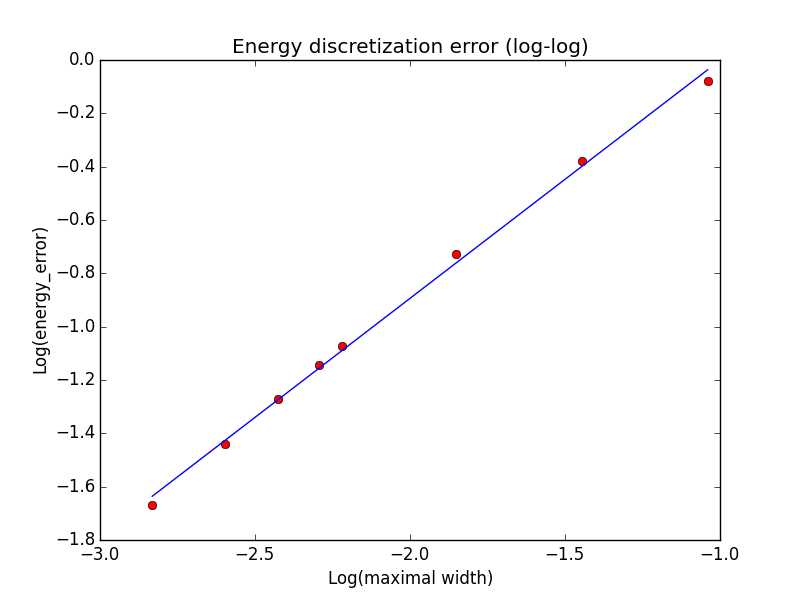
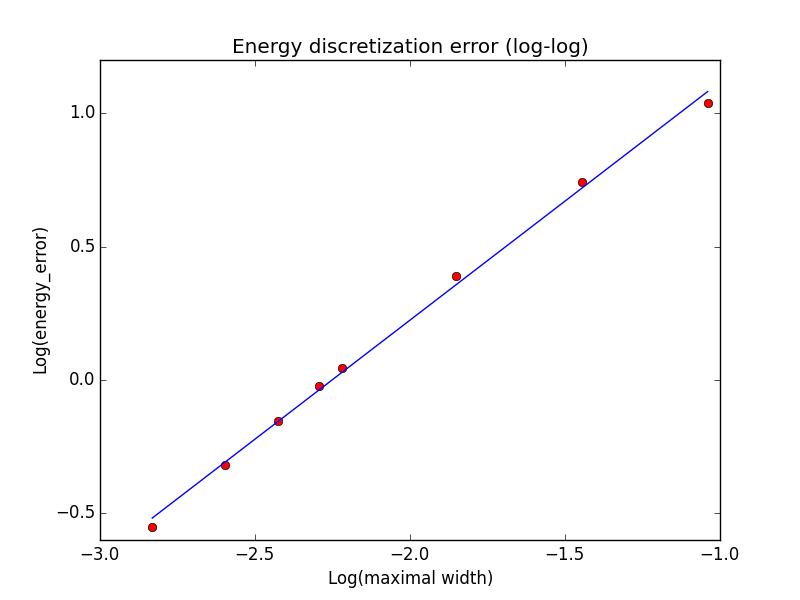
Correction

diff --git a/Series_8/series8_3.py b/Series_8/series8_3.py
@@ -27,7 +27,7 @@ import matplotlib.pyplot as plt
 # which gives a analytic solution u(x,y)=((8pi+1)/(8pi^2+1))cos(2pi*x)cos(2pi*y)
 
 #lets define the source function
-f= lambda x1,x2: (8*np.pi+1)*np.cos(2*np.pi*x1)*np.cos(2*np.pi*x2)
+f= lambda x1,x2: (8*np.pi**2+1)*np.cos(2*np.pi*x1)*np.cos(2*np.pi*x2)
 
 # The order of the quadrature will be 3
 n=3
@@ -57,7 +57,7 @@ def error_energy(h0):
 	# For this source f and the analytic solution the first part of the
 	# discretization error related with the load vector evaluated on 
 	# analytic solution will be
-	lu=(1./4)*((8*np.pi+1)**2)/(8*np.pi**2+1)
+	lu=1./4+2*np.pi**2
 	# The part related to the approximate soluiton will be the innerproduct
 	# of fn and pn
 	lun=un.dot(fn)
